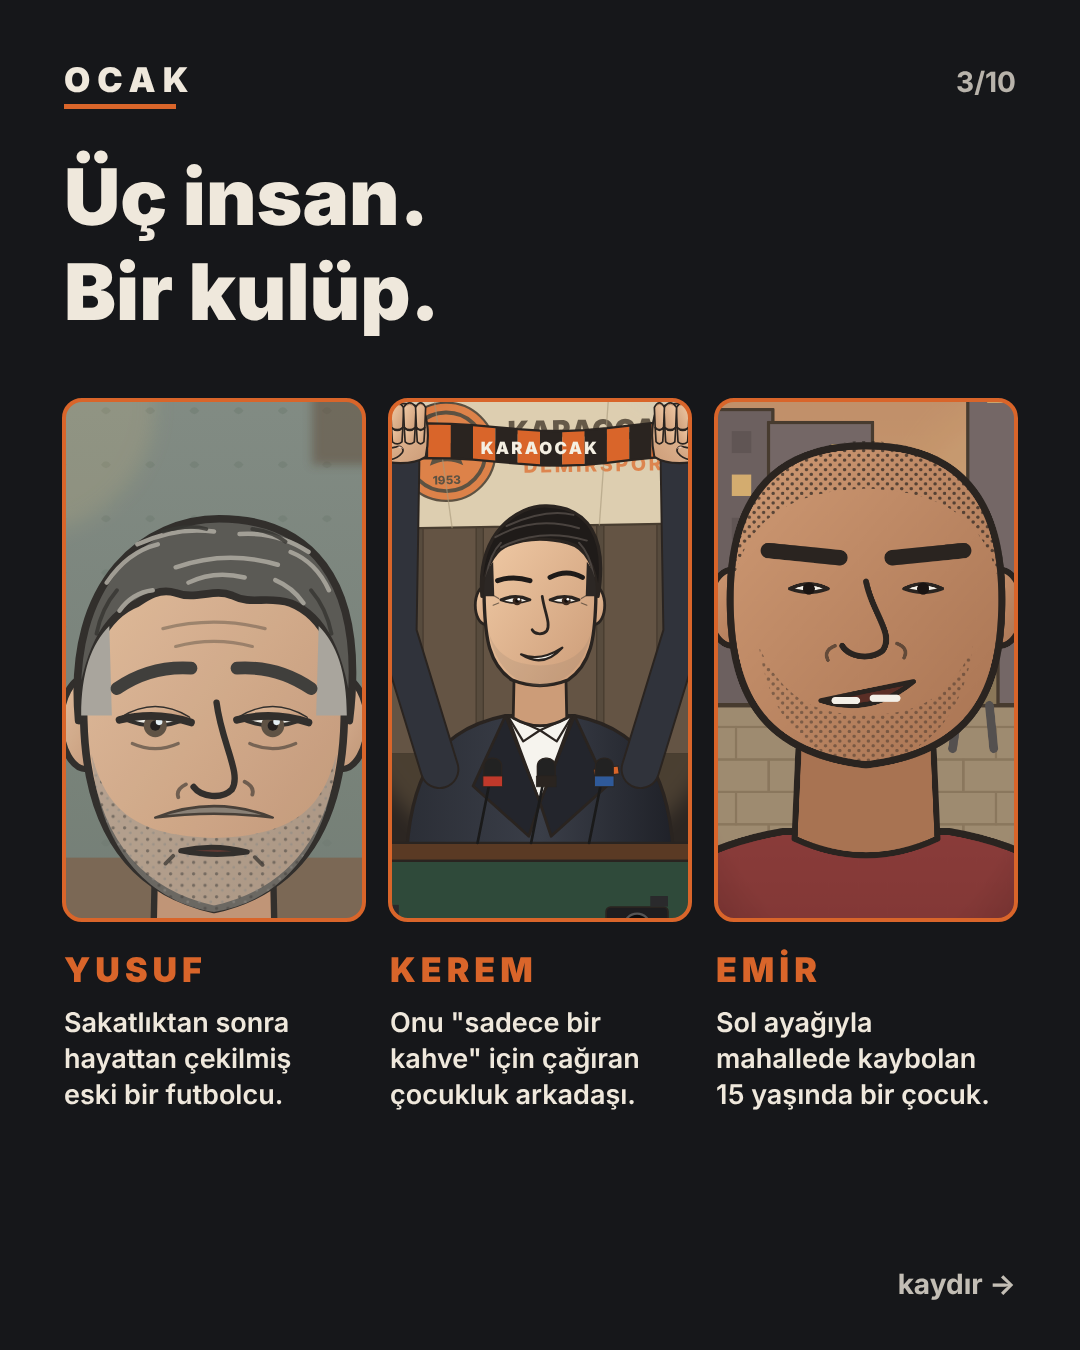
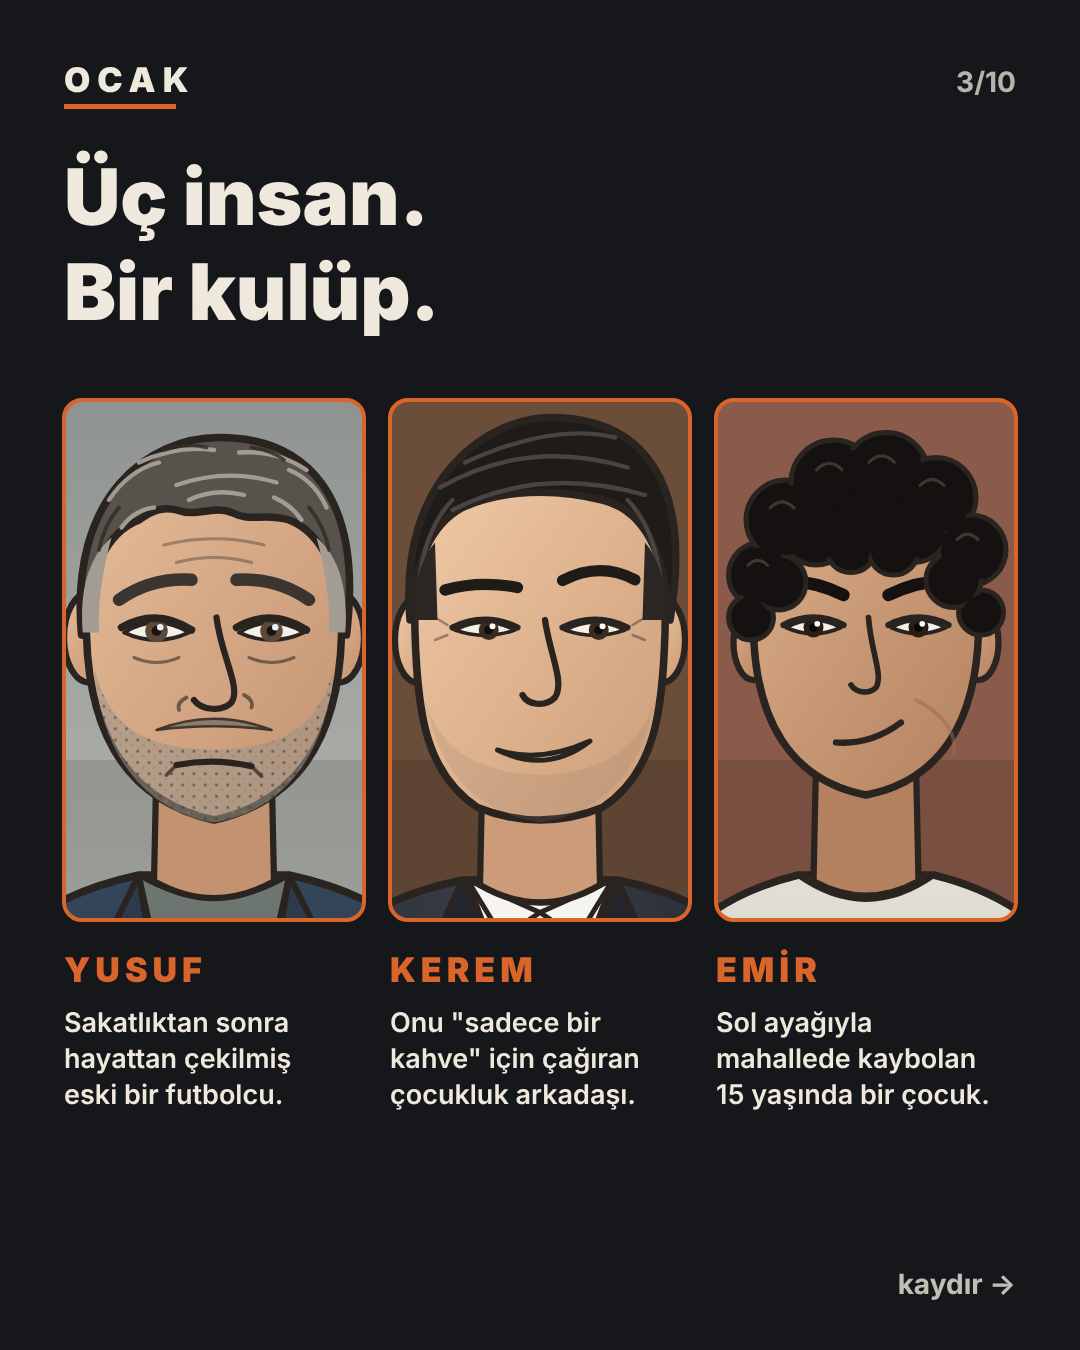
OCAK: kaydırmalı postta karakter portreleri yeniden çizildi, Yusuf'un şakak çizimi düzeltildi
Claude-Session: https://claude.ai/code/session_01KAcrh4E6bmA4HsYuDVf7xc

Changed region(s): [[0.0611, 0.28, 0.9472, 0.6844]]

diff --git a/gorseller/pr-carousel/carousel.js b/gorseller/pr-carousel/carousel.js
@@ -2,7 +2,7 @@
 const CW = 1080, CH = 1350, NS = 10;
 const CREAM = '#efe8dc';
 const bg = (inner, vb) => `<svg x="0" y="0" width="${CW}" height="${CH}" viewBox="${vb}" preserveAspectRatio="xMidYMid slice">${DEFS}${inner}</svg>`;
-const panel = (inner, x, y, w, h, vb) => `<svg x="${x}" y="${y}" width="${w}" height="${h}" viewBox="${vb}" preserveAspectRatio="xMidYMid slice">${DEFS}${inner}</svg>`;
+const panel = (inner, x, y, w, h, vb) => `<svg x="${x}" y="${y}" width="${w}" height="${h}" viewBox="${vb}" preserveAspectRatio="xMidYMid slice">${DEFS}${DEFS2}${inner}</svg>`;
 const shade = (from, to, op = .85, col = '#0b0b0c') => {
   const id = 'sh' + Math.round(Math.random() * 1e9);
   return `<defs><linearGradient id="${id}" x1="0" y1="${from < to ? 0 : 1}" x2="0" y2="${from < to ? 1 : 0}"><stop offset="0" stop-color="${col}" stop-opacity="${op}"/><stop offset="1" stop-color="${col}" stop-opacity="0"/></linearGradient></defs><rect x="0" y="${Math.min(from, to)}" width="${CW}" height="${Math.abs(to - from)}" fill="url(#${id})"/>`;
@@ -34,10 +34,12 @@ const SLIDES = [
   () => {
     let s = `<rect width="${CW}" height="${CH}" fill="#16171a"/>`;
     s += T(64, 225, ['Üç insan.', 'Bir kulüp.'], { fs: 78, fw: 900 });
+    const portrait = (bgFill, body) => `<rect width="1080" height="1920" fill="${bgFill}"/><rect x="0" y="1150" width="1080" height="770" fill="#000" opacity=".12"/><g transform="translate(540 880) scale(2.5)">${body}</g>`;
+    const VB = '240 430 600 1040';
     const P = [
-      [shot3b(1, 15.8), '230 360 620 1075', 'YUSUF', ['Sakatlıktan sonra', 'hayattan çekilmiş', 'eski bir futbolcu.']],
-      [shot2a(1.5, 11), '200 300 680 1180', 'KEREM', ['Onu "sadece bir', 'kahve" için çağıran', 'çocukluk arkadaşı.']],
-      [`<image href="frames2/f01500.png" x="0" y="0" width="1080" height="1920"/>`, '250 540 580 1005', 'EMİR', ['Sol ayağıyla', 'mahallede kaybolan', '15 yaşında bir çocuk.']],
+      [portrait('url(#skyGrey)', yusufBodyOut() + yusufHead({ look: .05 })), VB, 'YUSUF', ['Sakatlıktan sonra', 'hayattan çekilmiş', 'eski bir futbolcu.']],
+      [portrait('#6b4e3a', keremBody() + keremHead({ smile: .7 })), VB, 'KEREM', ['Onu "sadece bir', 'kahve" için çağıran', 'çocukluk arkadaşı.']],
+      [portrait('#8a5a4a', emirBody() + emirHead({ smirk: 1 })), VB, 'EMİR', ['Sol ayağıyla', 'mahallede kaybolan', '15 yaşında bir çocuk.']],
     ];
     P.forEach(([inner, vb, name, cap], i) => {
       const x = 64 + i * 326, y = 400, w = 300, h = 520;
@@ -83,7 +85,7 @@ const SLIDES = [
     let s = `<rect width="${CW}" height="${CH}" fill="${ORANGE}"/>`;
     s += `<g transform="translate(860 1120)" opacity=".2">${crest(0, 0, 210)}</g>`;
     s += T(64, 330, ['Senaryo,', 'karakterler', 've hikâye', 'bana aittir.'], { fs: 118, fw: 900, fill: '#1b1b1d', lh: 132 });
-    s += T(64, 950, ['Yapay zekâ sadece fırçam.', 'Hikâyeyi o yazmadı.', 'Ben yazdım. Yıllar önce.'], { fs: 44, fw: 700, fill: '#1b1b1d', lh: 60 });
+    s += T(64, 950, ['Yapay zekâ sadece fırçam.', 'Ben yazdım. Yıllar önce.'], { fs: 44, fw: 700, fill: '#1b1b1d', lh: 60 });
     return s + chrome(8, false);
   },
   // 9 — kusursuz değil

diff --git a/gorseller/bolum1/lib.js b/gorseller/bolum1/lib.js
@@ -129,7 +129,7 @@ function yusufHead(o = {}) {
   // hair: defined salt & pepper, soft uneven hairline
   s += `<path d="M-106 8 C-116 -104 -52 -150 4 -150 C72 -150 120 -106 106 8 C100 -44 86 -74 60 -84 C40 -90 30 -82 14 -90 C0 -96 -14 -86 -30 -92 C-44 -96 -54 -88 -60 -84 C-86 -74 -100 -44 -106 8Z" fill="${young ? '#231e1b' : '#57524c'}" ${S(6)}/>`;
   if (!young) {
-  s += `<path d="M-104 4 C-104 -30 -96 -52 -82 -66 L-80 4Z M104 4 C104 -30 96 -52 82 -66 L80 4Z" fill="#aaa399"/>`;
+  s += `<path d="M-105 6 C-108 -30 -99 -56 -82 -70 C-89 -44 -93 -20 -92 6Z M105 6 C108 -30 99 -56 82 -70 C89 -44 93 -20 92 6Z" fill="#a39c92"/>`;
   s += `<path d="M-60 -130 q30 -14 60 -10 M-30 -112 q40 -14 80 -2 M20 -138 q30 -2 54 14 M-84 -100 q16 -24 40 -30 M60 -124 q20 8 30 30 M-20 -100 q20 -10 44 -4 M-74 -78 q10 -14 26 -16 M48 -102 q14 6 22 18" ${LN(3.5, '#a8a096', .95)}/>`;
   s += `<path d="M-40 -140 q20 -6 34 -2 M30 -142 q16 2 26 10 M-92 -60 q4 -20 16 -34 M92 -60 q-4 -20 -16 -34" ${LN(3, '#2e2a26', .8)}/>`; }
   // brows: inner raised (melancholy)

diff --git a/gorseller/bolum2/lib.js b/gorseller/bolum2/lib.js
@@ -129,7 +129,7 @@ function yusufHead(o = {}) {
   // hair: defined salt & pepper, soft uneven hairline
   s += `<path d="M-106 8 C-116 -104 -52 -150 4 -150 C72 -150 120 -106 106 8 C100 -44 86 -74 60 -84 C40 -90 30 -82 14 -90 C0 -96 -14 -86 -30 -92 C-44 -96 -54 -88 -60 -84 C-86 -74 -100 -44 -106 8Z" fill="${young ? '#231e1b' : '#57524c'}" ${S(6)}/>`;
   if (!young) {
-  s += `<path d="M-104 4 C-104 -30 -96 -52 -82 -66 L-80 4Z M104 4 C104 -30 96 -52 82 -66 L80 4Z" fill="#aaa399"/>`;
+  s += `<path d="M-105 6 C-108 -30 -99 -56 -82 -70 C-89 -44 -93 -20 -92 6Z M105 6 C108 -30 99 -56 82 -70 C89 -44 93 -20 92 6Z" fill="#a39c92"/>`;
   s += `<path d="M-60 -130 q30 -14 60 -10 M-30 -112 q40 -14 80 -2 M20 -138 q30 -2 54 14 M-84 -100 q16 -24 40 -30 M60 -124 q20 8 30 30 M-20 -100 q20 -10 44 -4 M-74 -78 q10 -14 26 -16 M48 -102 q14 6 22 18" ${LN(3.5, '#a8a096', .95)}/>`;
   s += `<path d="M-40 -140 q20 -6 34 -2 M30 -142 q16 2 26 10 M-92 -60 q4 -20 16 -34 M92 -60 q-4 -20 -16 -34" ${LN(3, '#2e2a26', .8)}/>`; }
   // brows: inner raised (melancholy)
